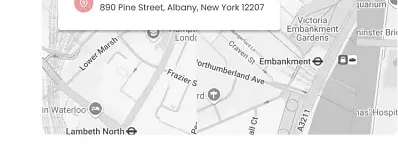
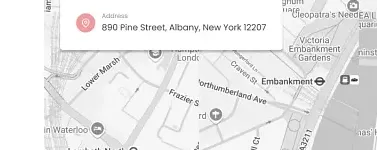
fix(polish): refine asset crops, remove redundant badge overlay, eager load all images

diff --git a/index.html b/index.html
@@ -9,7 +9,7 @@
 <body class="bg-white text-brand-navy antialiased min-h-screen flex flex-col font-sans">
 
   <!-- 1. TOP NOTIFICATION BAR -->
-  <aside class="border-b border-gray-100 bg-[#fbfcfd] text-[#6b7c93] text-[11px] sm:text-xs">
+  <aside class="border-b border-gray-100 bg-[#fbfcfd] text-[#6b7c93] text-[11px]">
     <div class="max-w-[1024px] mx-auto px-4 py-1.5 flex flex-wrap items-center justify-between gap-2">
       <div class="flex items-center gap-2">
         <span>Top Doctors, Clinics, and Physicians Providing Expert Care and Healing Touch</span>
@@ -99,7 +99,7 @@
   </header>
 
   <!-- 3. NAV BAR -->
-  <nav class="bg-brand-navy text-white text-xs font-medium sticky top-0 z-40 shadow-sm" aria-label="Main Navigation">
+  <nav class="bg-brand-navy text-white text-xs font-medium relative z-30 shadow-sm" aria-label="Main Navigation">
     <div class="max-w-[1024px] mx-auto px-4 flex items-center justify-between h-10 sm:h-11">
       <ul class="flex items-center gap-6 sm:gap-8">
         <li><a href="#hero" class="text-white hover:text-brand-cyan transition font-semibold">Home</a></li>
@@ -256,52 +256,20 @@
     <section id="about" class="py-12 sm:py-16 bg-white overflow-hidden">
       <div class="max-w-[1024px] mx-auto px-4 grid grid-cols-1 md:grid-cols-12 gap-10 lg:gap-14 items-center">
         
-        <!-- Left Image with Overlapping Open Hours -->
-        <div class="md:col-span-5 relative flex justify-center md:justify-start">
-          <div class="relative w-full max-w-[340px]">
+        <!-- Left Image with Embedded Open Hours -->
+        <div class="md:col-span-6 flex justify-center md:justify-start">
+          <div class="relative w-full max-w-[420px]">
             <img 
               src="./assets/images/about-doctor.webp" 
-              alt="Friendly female physician in consultation office" 
-              class="w-full h-auto rounded-xl shadow-card object-cover"
-              loading="lazy"
+              alt="Dedicated female physician and clinic operating hours schedule" 
+              class="w-full h-auto rounded-2xl shadow-card object-contain"
+              loading="eager"
             >
-            
-            <!-- Open Hours Blue Badge -->
-            <div class="absolute -bottom-6 -right-2 sm:-right-6 bg-[#2196f3] text-white p-4 sm:p-5 rounded-xl shadow-floating w-[185px] sm:w-[205px]">
-              <h3 class="text-xs sm:text-sm font-bold text-white mb-2.5">Open Hours</h3>
-              <div class="flex flex-col gap-1.5 text-[10px] text-blue-50">
-                <div class="flex justify-between items-center border-b border-white/20 pb-1">
-                  <span>Monday</span>
-                  <span class="font-medium text-white">8:00 - 21:00</span>
-                </div>
-                <div class="flex justify-between items-center border-b border-white/20 pb-1">
-                  <span>Tuesday</span>
-                  <span class="font-medium text-white">8:00 - 21:00</span>
-                </div>
-                <div class="flex justify-between items-center border-b border-white/20 pb-1">
-                  <span>Wednesday</span>
-                  <span class="font-medium text-white">8:00 - 21:00</span>
-                </div>
-                <div class="flex justify-between items-center border-b border-white/20 pb-1">
-                  <span>Thursday</span>
-                  <span class="font-medium text-white">8:00 - 21:00</span>
-                </div>
-                <div class="flex justify-between items-center border-b border-white/20 pb-1">
-                  <span>Friday</span>
-                  <span class="font-medium text-white">8:00 - 21:00</span>
-                </div>
-                <div class="flex justify-between items-center pt-0.5">
-                  <span>Saturday/Sunday</span>
-                  <span class="font-medium text-white">8:00 - 21:00</span>
-                </div>
-              </div>
-            </div>
-
           </div>
         </div>
 
         <!-- Right Content -->
-        <div class="md:col-span-7 flex flex-col items-start pt-6 md:pt-0">
+        <div class="md:col-span-6 flex flex-col items-start pt-6 md:pt-0">
           <span class="text-brand-gold text-xs font-bold tracking-wider uppercase mb-1.5">ABOUT US</span>
           <h2 class="text-2xl sm:text-3xl font-bold text-brand-navy leading-snug mb-4">
             Dedicated To Providing<br class="hidden sm:inline"> Complete Medical Care
@@ -433,7 +401,6 @@
 
     <!-- 8. EMERGENCY SERVICE BANNER -->
     <section class="bg-[#1877f2] relative overflow-hidden text-white py-12 sm:py-14">
-      <!-- Decorative background hexagons/dots -->
       <div class="absolute inset-0 pointer-events-none opacity-10">
         <svg class="w-full h-full" viewBox="0 0 1000 200" preserveAspectRatio="none" fill="none" stroke="white" stroke-width="1.5">
           <polygon points="50,20 80,40 80,80 50,100 20,80 20,40" />
@@ -444,7 +411,6 @@
       </div>
 
       <div class="max-w-[1024px] mx-auto px-4 relative z-10 flex flex-col items-center text-center">
-        <!-- 24 Hour Badge -->
         <div class="w-12 h-12 rounded-full border-2 border-white/80 flex flex-col items-center justify-center mb-3 text-white">
           <div class="flex items-center text-[10px] leading-none mb-0.5">
             <svg class="w-3 h-3 mr-0.5 fill-current" viewBox="0 0 24 24">
@@ -475,7 +441,7 @@
               src="./assets/images/child-care.webp" 
               alt="Smiling baby toddler lying with plush yellow teddy bear" 
               class="w-full h-auto object-cover"
-              loading="lazy"
+              loading="eager"
             >
           </div>
         </div>
@@ -656,7 +622,7 @@
                   src="./assets/images/lab-team.webp" 
                   alt="Laboratory medical team conducting chemical research with test tubes and microscope" 
                   class="w-full h-auto object-cover"
-                  loading="lazy"
+                  loading="eager"
                 >
                 <button 
                   type="button" 
@@ -698,7 +664,7 @@
             </div>
             <div class="md:col-span-6 flex justify-center">
               <div class="relative w-full rounded-xl overflow-hidden shadow-card">
-                <img src="./assets/images/lab-team.webp" alt="Vaccine preparation" class="w-full h-auto object-cover" loading="lazy">
+                <img src="./assets/images/lab-team.webp" alt="Vaccine preparation" class="w-full h-auto object-cover" loading="eager">
               </div>
             </div>
           </div>
@@ -718,7 +684,7 @@
             </div>
             <div class="md:col-span-6 flex justify-center">
               <div class="relative w-full rounded-xl overflow-hidden shadow-card">
-                <img src="./assets/images/lab-team.webp" alt="Microscopy analysis" class="w-full h-auto object-cover" loading="lazy">
+                <img src="./assets/images/lab-team.webp" alt="Microscopy analysis" class="w-full h-auto object-cover" loading="eager">
               </div>
             </div>
           </div>
@@ -728,16 +694,16 @@
         <!-- 4-Photo Lab Gallery Row -->
         <div class="grid grid-cols-2 md:grid-cols-4 gap-4 sm:gap-6">
           <div class="rounded-xl overflow-hidden shadow-card border border-gray-100 hover:shadow-floating transition duration-200 aspect-[4/3]">
-            <img src="./assets/images/lab-gallery-1.webp" alt="Modern clinic reception desk and check-in lobby" class="w-full h-full object-cover" loading="lazy">
+            <img src="./assets/images/lab-gallery-1.webp" alt="Modern clinic reception desk and check-in lobby" class="w-full h-full object-cover" loading="eager">
           </div>
           <div class="rounded-xl overflow-hidden shadow-card border border-gray-100 hover:shadow-floating transition duration-200 aspect-[4/3]">
-            <img src="./assets/images/lab-gallery-2.webp" alt="Patient undergoing diagnosis inside modern CT/MRI scanner" class="w-full h-full object-cover" loading="lazy">
+            <img src="./assets/images/lab-gallery-2.webp" alt="Patient undergoing diagnosis inside modern CT/MRI scanner" class="w-full h-full object-cover" loading="eager">
           </div>
           <div class="rounded-xl overflow-hidden shadow-card border border-gray-100 hover:shadow-floating transition duration-200 aspect-[4/3]">
-            <img src="./assets/images/lab-gallery-3.webp" alt="Physicians consulting and examining digital X-ray scan" class="w-full h-full object-cover" loading="lazy">
+            <img src="./assets/images/lab-gallery-3.webp" alt="Physicians consulting and examining digital X-ray scan" class="w-full h-full object-cover" loading="eager">
           </div>
           <div class="rounded-xl overflow-hidden shadow-card border border-gray-100 hover:shadow-floating transition duration-200 aspect-[4/3]">
-            <img src="./assets/images/lab-gallery-4.webp" alt="Doctor measuring blood pressure on patient arm" class="w-full h-full object-cover" loading="lazy">
+            <img src="./assets/images/lab-gallery-4.webp" alt="Doctor measuring blood pressure on patient arm" class="w-full h-full object-cover" loading="eager">
           </div>
         </div>
 
@@ -773,7 +739,7 @@
               src="./assets/images/patient-avatar.webp" 
               alt="Karen Levin patient testimonial portrait" 
               class="w-full h-full object-cover"
-              loading="lazy"
+              loading="eager"
             >
           </div>
 
@@ -827,7 +793,7 @@
           <!-- Doctor 1: Mira Levin -->
           <article class="bg-[#f0f4f8] rounded-2xl overflow-hidden shadow-card border border-gray-100/80 p-3 flex flex-col group hover:-translate-y-1 hover:shadow-floating transition duration-200">
             <div class="relative w-full rounded-xl overflow-hidden bg-white aspect-[4/5] mb-3">
-              <img src="./assets/images/doctor-mira.webp" alt="Dr. Mira Levin" class="w-full h-full object-cover" loading="lazy">
+              <img src="./assets/images/doctor-mira.webp" alt="Dr. Mira Levin" class="w-full h-full object-cover" loading="eager">
               <!-- Top-right plus icon badge -->
               <div class="absolute top-2 right-2 w-5 h-5 rounded-full bg-white/90 text-brand-cyan flex items-center justify-center shadow-sm">
                 <svg class="w-3 h-3 stroke-current" fill="none" viewBox="0 0 24 24" stroke-width="2.5"><path stroke-linecap="round" stroke-linejoin="round" d="M12 4v16m8-8H4"/></svg>
@@ -843,7 +809,7 @@
           <!-- Doctor 2: Abram Philips -->
           <article class="bg-[#f0f4f8] rounded-2xl overflow-hidden shadow-card border border-gray-100/80 p-3 flex flex-col group hover:-translate-y-1 hover:shadow-floating transition duration-200">
             <div class="relative w-full rounded-xl overflow-hidden bg-white aspect-[4/5] mb-3">
-              <img src="./assets/images/doctor-abram.webp" alt="Dr. Abram Philips" class="w-full h-full object-cover" loading="lazy">
+              <img src="./assets/images/doctor-abram.webp" alt="Dr. Abram Philips" class="w-full h-full object-cover" loading="eager">
               <div class="absolute top-2 right-2 w-5 h-5 rounded-full bg-white/90 text-brand-cyan flex items-center justify-center shadow-sm">
                 <svg class="w-3 h-3 stroke-current" fill="none" viewBox="0 0 24 24" stroke-width="2.5"><path stroke-linecap="round" stroke-linejoin="round" d="M12 4v16m8-8H4"/></svg>
               </div>
@@ -858,7 +824,7 @@
           <!-- Doctor 3: Ashlynn Korsgaard -->
           <article class="bg-[#f0f4f8] rounded-2xl overflow-hidden shadow-card border border-gray-100/80 p-3 flex flex-col group hover:-translate-y-1 hover:shadow-floating transition duration-200">
             <div class="relative w-full rounded-xl overflow-hidden bg-white aspect-[4/5] mb-3">
-              <img src="./assets/images/doctor-ashlynn.webp" alt="Dr. Ashlynn Korsgaard" class="w-full h-full object-cover" loading="lazy">
+              <img src="./assets/images/doctor-ashlynn.webp" alt="Dr. Ashlynn Korsgaard" class="w-full h-full object-cover" loading="eager">
               <div class="absolute top-2 right-2 w-5 h-5 rounded-full bg-white/90 text-brand-cyan flex items-center justify-center shadow-sm">
                 <svg class="w-3 h-3 stroke-current" fill="none" viewBox="0 0 24 24" stroke-width="2.5"><path stroke-linecap="round" stroke-linejoin="round" d="M12 4v16m8-8H4"/></svg>
               </div>
@@ -873,7 +839,7 @@
           <!-- Doctor 4: Cooper Dias -->
           <article class="bg-[#f0f4f8] rounded-2xl overflow-hidden shadow-card border border-gray-100/80 p-3 flex flex-col group hover:-translate-y-1 hover:shadow-floating transition duration-200">
             <div class="relative w-full rounded-xl overflow-hidden bg-white aspect-[4/5] mb-3">
-              <img src="./assets/images/doctor-cooper.webp" alt="Dr. Cooper Dias" class="w-full h-full object-cover" loading="lazy">
+              <img src="./assets/images/doctor-cooper.webp" alt="Dr. Cooper Dias" class="w-full h-full object-cover" loading="eager">
               <div class="absolute top-2 right-2 w-5 h-5 rounded-full bg-white/90 text-brand-cyan flex items-center justify-center shadow-sm">
                 <svg class="w-3 h-3 stroke-current" fill="none" viewBox="0 0 24 24" stroke-width="2.5"><path stroke-linecap="round" stroke-linejoin="round" d="M12 4v16m8-8H4"/></svg>
               </div>
@@ -1030,7 +996,7 @@
             src="./assets/images/footer-map.webp" 
             alt="Map location for Health Flex Clinic at 890 Pine Street, Albany, New York 12207" 
             class="w-full h-auto object-cover"
-            loading="lazy"
+            loading="eager"
           >
         </div>
       </div>

diff --git a/scripts/slice_assets.py b/scripts/slice_assets.py
@@ -9,8 +9,8 @@ def slice_all_assets():
     hero_doc = img.crop((535, 142, 1024, 700))
     hero_doc.save('public/assets/images/hero-doctor.webp')
     
-    # 2. About doctor (female physician)
-    about_doc = img.crop((106, 882, 375, 1222))
+    # 2. About doctor (composite with Open Hours badge)
+    about_doc = img.crop((106, 882, 490, 1235))
     about_doc.save('public/assets/images/about-doctor.webp')
     
     # 3. Child care (baby with teddy bear)
@@ -46,7 +46,7 @@ def slice_all_assets():
     d4.save('public/assets/images/doctor-cooper.webp')
     
     # 8. Footer map
-    fmap = img.crop((520, 5015, 918, 5175))
+    fmap = img.crop((518, 4995, 895, 5145))
     fmap.save('public/assets/images/footer-map.webp')
     
     print("All 13 assets sliced successfully!")
